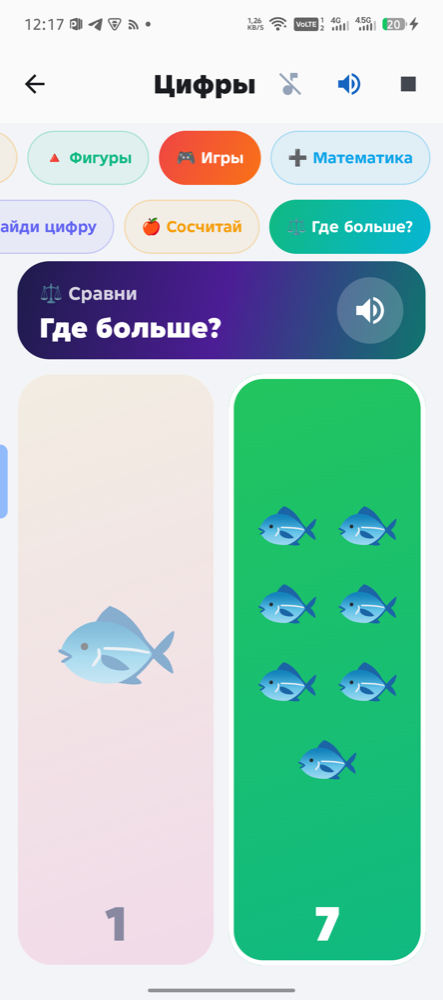
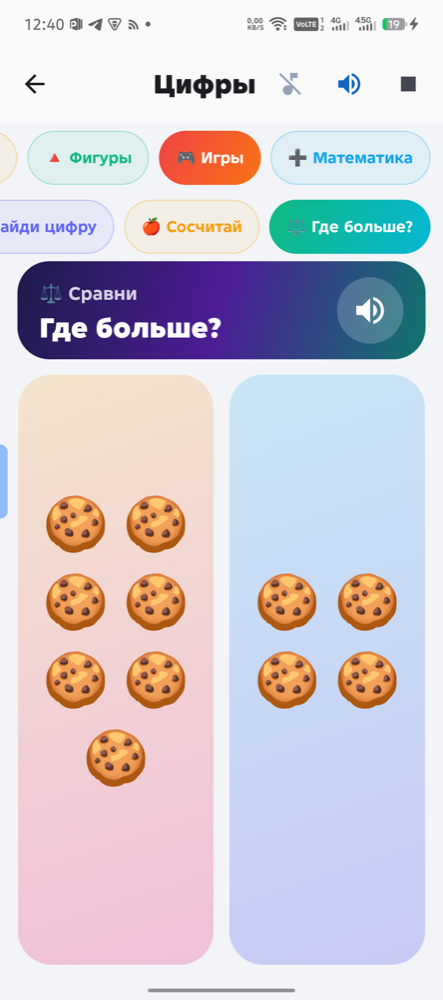
Версия 1.9: обновлённые Азбука и Цифры, скриншоты в README.

diff --git a/README.md b/README.md
@@ -137,11 +137,23 @@
 
 ### 👨👩👧 Детям — с радостью, не «для галочки»
 
-Алфавит, цифры, цвета, животные, растения, свои альбомы с фото и звуком — и **игры**: крестики-нолики, шашки, го, водопровод.
+Алфавит, цифры, цвета, животные, растения, свои альбомы с фото и звуком — и **игры**: крестики-нолики, шашки, го, водопровод, «Найди цвет», «Найди фигуру», «Сколько углов», «Сосчитай», «Где больше?», «Собери слово».
 
 | Раздел «Детям» | Игры |
 |:---:|:---:|
 | ![Обучение и альбомы](docs/screenshots/09-kids.png) | ![Крестики-нолики, шашки, го…](docs/screenshots/31-kids-games.png) |
+
+| Азбука: песочница | Азбука: «Собери слово» | Цифры: песочница |
+|:---:|:---:|:---:|
+| ![Песочница букв с кнопками-картинками](screenshots/kids-azbuka-sandbox.png) | ![Задание собрать слово](screenshots/kids-azbuka-sandbox-task.png) | ![Песочница цифр](screenshots/kids-cifry-sandbox.png) |
+
+| Фигуры: «Найди фигуру» | Фигуры: «Сколько углов» | Альбом фигур |
+|:---:|:---:|:---:|
+| ![Игра найди фигуру](screenshots/kids-cifry-shapes-find.png) | ![Игра сколько углов](screenshots/kids-cifry-shapes-corners.png) | ![Плоские и объёмные фигуры](screenshots/kids-cifry-shapes-gallery.png) |
+
+| Игра «Где больше?» | Математика |
+|:---:|:---:|
+| ![Сравнение количества](screenshots/kids-cifry-games-compare.png) | ![Примеры с кнопками-картинками](screenshots/kids-cifry-math.png) |
 
 ---
 
